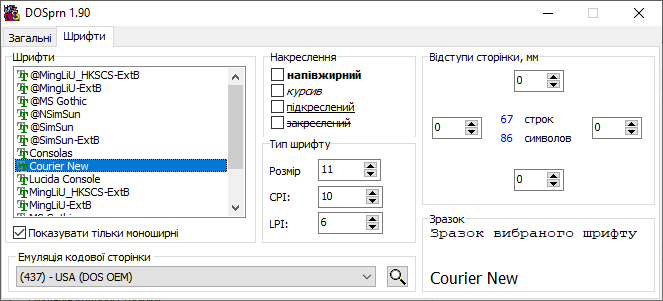
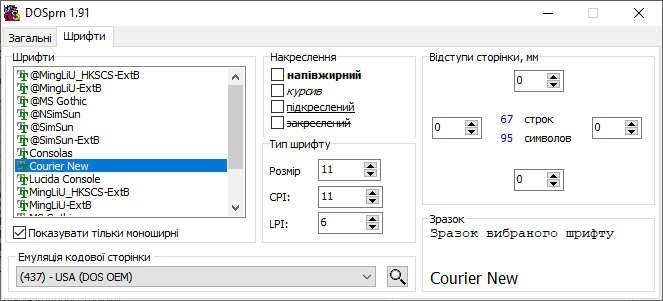
1.91

diff --git a/readme.htm b/readme.htm
@@ -1,5 +1,5 @@
 <!DOCTYPE HTML PUBLIC "-//W3C//DTD HTML 4.0 Transitional//EN">
-<HTML><HEAD><TITLE>DOSPRN 1.90 документація</TITLE>
+<HTML><HEAD><TITLE>DOSPRN 1.91 документація</TITLE>
 <META http-equiv=Content-Type content="text/html; charset=utf-8">
 <META http-equiv=Content-Language content=en-us>
 <META name=Keywords  content="DOS, printers, program, print, printer, USB, programs, LPT, DOS program, software, national, language, internanional" >
@@ -23,7 +23,7 @@
     <TD width="100%">      <table border="0" cellspacing="0" cellpadding="0">
         <tr>
           <td width="50"><IMG src="images/logo.gif" ALT="Print from DOS on printers under Windows98, WinXP, Windows2000" width="42" height="39"></td>
-          <td width="281"><font size="5"><b>DOSPRN 1.90</b></font></td>
+          <td width="281"><font size="5"><b>DOSPRN 1.91</b></font></td>
           <td width="194">      
       <table border="2" bgcolor="#C0C0C0" cellpadding="4" cellspacing="4">
         <tr>
@@ -64,7 +64,7 @@
       ознайомитися з роботою DOSPRN та спробувати її в роботі з вашими програмами для DOS на протязі випробувального періоду. По закінченні цьогу періоду
       ви маєте або зареєструвати вашу копію або видалити її з вашого комп'ютера за допомогою утиліти деінсталяції яка розміщена у головному меню Робочого столу у групі DOSPRN.</P>
       <H3 align=justify>Інсталяція</H3>
-      <P align=justify>Загрузіть та запустіть на виконання само-розпаковуючийся файл <I><a href="https://dosprn.com/DOSprn190.exe">DOSprn190.exe</a></I>. 
+      <P align=justify>Загрузіть та запустіть на виконання само-розпаковуючийся файл <I><a href="https://dosprn.com/DOSprn191.exe">DOSprn191.exe</a></I>. 
       Вам треба буде відповісти на кілька простих питань. Під час інсталяції DOSPRN копіює усі необхідні файли та створює ярлики на вашому комп'ютері.</P>
       <H3 align=justify>Запуск програми</H3>Ви можете стартувати DOSPRN за допомогою ярлика на Робочому Столі або з папки "DOSPRN" 
       у головному меню Windows. Також DOSPRN може стартувати автоматично разом в операційною системою з папки "Автозагрузка" (якщо ви обрали таку можливість під час інсталяції). 

diff --git a/index.htm b/index.htm
@@ -1,5 +1,5 @@
 <!DOCTYPE HTML PUBLIC "-//W3C//DTD HTML 4.0 Transitional//EN">
-<HTML><HEAD><TITLE>DOSPRN 1.90. Друкуємо з DOS програм на принтери зумісні з Windows</TITLE>
+<HTML><HEAD><TITLE>DOSPRN 1.91. Друкуємо з DOS програм на принтери зумісні з Windows</TITLE>
 <META http-equiv=Content-Type content="text/html; charset=utf-8">
 <META http-equiv=Content-Language content=en-us>
 <META name=Keywords  content="dos print, printer, printers, DOS, win, windows, win2k, windows2000, program, USB, programs, LPT, DOS program, software, national, language, internanional" >
@@ -22,7 +22,7 @@
       <table border="0" cellspacing="0" cellpadding="0">
         <tr>
           <td width="50"><IMG src="images/logo.gif" ALT="Print from DOS on printers under Windows98, WinXP, Windows2000" width="42" height="39"></td>
-          <td width="281"><font size="5"><b>DOSPRN 1.90</b></font></td>
+          <td width="281"><font size="5"><b>DOSPRN 1.91</b></font></td>
           <td width="194">      
       <table border="2" bgcolor="#C0C0C0" cellpadding="4" cellspacing="4">
         <tr>
@@ -60,7 +60,7 @@
       <P>DOSPRN також може бути корисний якщо DOS програма прациює на вашій <b>рідній мові</b> але ваш принтер 
       не підтримує друк на вашій мові у текстовому режимі.</P>
       <P>DOSPRN розповсюджується як shareware. Загрузіть його звідси та <I><B><A 
-      href="https://dosprn.com/DOSprn190.exe">Спробуйте ЗАРАЗ</A></B></I> 
+      href="https://dosprn.com/DOSprn191.exe">Спробуйте ЗАРАЗ</A></B></I> 
       </P></TD></TR>
   <TR>
     <TD align=middle width=550 height=26>

diff --git a/download.htm b/download.htm
@@ -1,5 +1,5 @@
 <!DOCTYPE HTML PUBLIC "-//W3C//DTD HTML 4.0 Transitional//EN">
-<HTML><HEAD><TITLE>DOSPRN 1.90 dowload now</TITLE>
+<HTML><HEAD><TITLE>DOSPRN 1.91 dowload now</TITLE>
 <META http-equiv=Content-Language content=en-us>
 <META http-equiv=Content-Type content="text/html; charset=windows-1252">
 <META name=Keywords  content="dos printer driver, dos print download, dos printer, dos usb driver, dos print command, DOS, printers, program, print, printer, USB, programs, LPT, DOS program, software, national, language, internanional" >
@@ -22,7 +22,7 @@
     <TD width="100%">      <table border="0" cellspacing="0" cellpadding="0">
         <tr>
           <td width="50"><IMG src="images/logo.gif" ALT="Print from DOS on printers under Windows98, WinXP, Windows2000" width="42" height="39"></td>
-          <td width="281"><font size="5"><b>DOSPRN 1.90</b></font></td>
+          <td width="281"><font size="5"><b>DOSPRN 1.91</b></font></td>
           <td width="194">      
       <table border="2" bgcolor="#C0C0C0" cellpadding="4" cellspacing="4">
         <tr>
@@ -62,8 +62,8 @@
       <p>We strongly recommend that you thoroughly review the <a href="readme.htm">DOSPRN manual</a>
       and <a href="faq.htm">our FAQ</a>.<br>
       <br>
-      <a href="https://dosprn.com/DOSprn190.exe">Click here for download the
-      self-extracting file <i>DOSprn190.exe (1.8 Mb)</i></a><br>
+      <a href="https://dosprn.com/DOSprn191.exe">Click here for download the
+      self-extracting file <i>DOSprn191.exe (1.8 Mb)</i></a><br>
       <br>
       DOSPRN will remind you about registration each time you print report from your DOS application. If you have
       any questions about

diff --git a/order.htm b/order.htm
@@ -1,5 +1,5 @@
 <!DOCTYPE HTML PUBLIC "-//W3C//DTD HTML 4.0 Transitional//EN">
-<HTML><HEAD><TITLE>Order DOSPRN 1.90</TITLE>
+<HTML><HEAD><TITLE>Order DOSPRN 1.91</TITLE>
 <META http-equiv=Content-Language content=en-us>
 <META http-equiv=Content-Type content="text/html; charset=windows-1252">
 <META name=Keywords content="DOS print order, DOS2usb purchase, DOS printers, program, print, printer, DOS USB, programs, LPT, DOS program, DOS software">
@@ -24,7 +24,7 @@
       <table border="0" cellspacing="0" cellpadding="0">
         <tr>
           <td width="50"><IMG src="images/logo.gif" ALT="Print from DOS on printers under Windows98, WinXP, Windows2000" width="42" height="39"></td>
-          <td width="281"><font size="5"><b>DOSPRN 1.90</b></font></td>
+          <td width="281"><font size="5"><b>DOSPRN 1.91</b></font></td>
           <td width="194">      
       <table border="2" bgcolor="#C0C0C0" cellpadding="4" cellspacing="4">
         <tr>
@@ -78,7 +78,7 @@ After expiry of the trial period, you&nbsp;should register this program.</P>
 
       <P>
       If your DOSPRN's trial period has been expired now you can download and install
-      a <a href="https://dosprn.com/DOSprn190.exe">special "vacation" build</a> of DOSPRN 1.90. The trial period will be 
+      a <a href="https://dosprn.com/DOSprn191.exe">special "vacation" build</a> of DOSPRN 1.91. The trial period will be 
       expanded up to August, 1.
       </P>
 -->

diff --git a/news.htm b/news.htm
@@ -1,5 +1,5 @@
 <!DOCTYPE HTML PUBLIC "-//W3C//DTD HTML 4.0 Transitional//EN">
-<HTML><HEAD><TITLE>DOSPRN 1.90 секція новин</TITLE>
+<HTML><HEAD><TITLE>DOSPRN 1.91 секція новин</TITLE>
 <META http-equiv=Content-Language content=en-us>
 <META http-equiv=Content-Type content="text/html; charset=utf-8">
 <META name=Keywords  content="dos print news, dos printer driver, dos printer, dos usb driver, dos print command, DOS, printers, program, print, printer, USB, programs, LPT, DOS program, software, national, language, internanional" >
@@ -56,7 +56,12 @@
     </TD></TR>
   <TR>
     <TD width="100%">
-      <H3>What's new</H3>
+      <H3>Новини</H3>
+      <P><B>Version 1.91</B></P>
+      + додана підтримка паралельних портів LPT4..LPT8<br>
+      * виправлена помилка переривання повноекранного режима ДОС під час друку<br>
+      * виправлена поведінка опції командного рядка "dialog"<br>
+      * виправлення дрібних помилок<br>
       <P><B>Version 1.90</B></P>
       * виправлена помилка перехоплення даних на старих комп'ютерах з апаратними портами LPTx<br>
       * додана підтримка старих версій DOSBOX and vDos<br>

diff --git a/sequences.htm b/sequences.htm
@@ -1,5 +1,5 @@
 <!DOCTYPE HTML PUBLIC "-//W3C//DTD HTML 4.0 Transitional//EN">
-<HTML><HEAD><TITLE>DOSPRN 1.90 supported ESC sequences</TITLE>
+<HTML><HEAD><TITLE>DOSPRN 1.91 supported ESC sequences</TITLE>
 <META http-equiv=Content-Type content="text/html; charset=windows-1251">
 <META name=Keywords  content="dos printer driver, dos printer, dos usb driver, dos print command, DOS, printers, program, print, printer, USB, programs, LPT, DOS program, software, national, language, internanional" >
 <META name=Description  content="DOSPRN allow to use your old favorite DOS program with new printers independently of their types (yes, and USB also !)" >
@@ -22,7 +22,7 @@
     <TD width="100%">      <table border="0" cellspacing="0" cellpadding="0" width="630">
         <tr>
           <td width="50"><IMG src="images/logo.gif" ALT="Print from DOS on printers under Windows98, WinXP, Windows2000" width="42" height="39"></td>
-          <td width="345"><font size="5"><b>DOSPRN 1.90</b></font></td>
+          <td width="345"><font size="5"><b>DOSPRN 1.91</b></font></td>
           <td width="229">      
       <table border="2" bgcolor="#C0C0C0" cellpadding="4" cellspacing="4">
         <tr>

diff --git a/login.htm b/login.htm
@@ -1,5 +1,5 @@
 <!DOCTYPE HTML PUBLIC "-//W3C//DTD HTML 4.0 Transitional//EN">
-<HTML><HEAD><TITLE>DOSPRN 1.90 registered users login</TITLE>
+<HTML><HEAD><TITLE>DOSPRN 1.91 registered users login</TITLE>
 <META http-equiv=Content-Language content=en-us>
 <META http-equiv=Content-Type content="text/html; charset=windows-1252">
 <META name=Keywords  content="dos printer driver, dos printer, dos usb driver, dos print command, DOS, printers, program, print, printer, USB, programs, LPT, DOS program, software, national, language, internanional" >
@@ -22,7 +22,7 @@
     <TD width="100%">      <table border="0" cellspacing="0" cellpadding="0">
         <tr>
           <td width="50"><IMG src="images/logo.gif" ALT="Print from DOS on printers under Windows98, WinXP, Windows2000" width="42" height="39"></td>
-          <td width="281"><font size="5"><b>DOSPRN 1.90</b></font></td>
+          <td width="281"><font size="5"><b>DOSPRN 1.91</b></font></td>
           <td width="194">      
       <table border="2" bgcolor="#C0C0C0" cellpadding="4" cellspacing="4">
         <tr>

diff --git a/languages.htm b/languages.htm
@@ -5,7 +5,7 @@
 <meta name="Description" content="DOSPRN allow to use your old favorite DOS program with new printers independently of their types (yes, and USB also !)">
 <meta name="GENERATOR" content="Microsoft FrontPage 6.0">
 <meta name="ProgId" content="FrontPage.Editor.Document">
-<TITLE>DOSPRN 1.90 languages supported</TITLE>
+<TITLE>DOSPRN 1.91 languages supported</TITLE>
 <meta name=viewport content="width=device-width, initial-scale=1">
 
 <script type="text/javascript">
@@ -25,7 +25,7 @@
     <TD width="100%">      <table border="0" cellspacing="0" cellpadding="0">
         <tr>
           <td width="50"><IMG src="images/logo.gif" ALT="Print from DOS on printers under Windows98, WinXP, Windows2000" width="42" height="39"></td>
-          <td width="281"><font size="5"><b>DOSPRN 1.90</b></font></td>
+          <td width="281"><font size="5"><b>DOSPRN 1.91</b></font></td>
           <td width="194">      
       <table border="2" bgcolor="#C0C0C0" cellpadding="4" cellspacing="4">
         <tr>

diff --git a/codepages.htm b/codepages.htm
@@ -1,4 +1,4 @@
-<HTML><HEAD><TITLE>DOSPRN 1.90 codepages support</TITLE>
+<HTML><HEAD><TITLE>DOSPRN 1.91 codepages support</TITLE>
 <META http-equiv=Content-Type content="text/html; charset=windows-1251">
 <META name=Keywords content="dos printer driver, dos code, dos codepages, dos codepages, dos printer, dos usb driver, dos print command, DOS, printers, program, print, printer, USB, programs, LPT, DOS program, software, national, language, internanional">
 <META name=Description content="DOSPRN allow to use your old favorite DOS program with new printers independently of their types (yes, and USB also !)">
@@ -22,7 +22,7 @@
 
 <TR>
 <TD width=50><IMG height=39 alt="Print from DOS on printers under Windows98, WinXP, Windows2000" src="images/logo.gif" width=42></TD>
-<TD width=281><FONT size=5><B>DOSPRN 1.90</B></FONT></TD>
+<TD width=281><FONT size=5><B>DOSPRN 1.91</B></FONT></TD>
 <TD width=194>
 <TABLE cellSpacing=4 cellPadding=4 bgColor=#c0c0c0 border=2>
 

diff --git a/faq.htm b/faq.htm
@@ -22,7 +22,7 @@
     <TD width="100%">      <table border="0" cellspacing="0" cellpadding="0">
         <tr>
           <td width="50"><IMG src="images/logo.gif" ALT="Print from DOS on printers under Windows98, WinXP, Windows2000" width="42" height="39"></td>
-          <td width="281"><font size="5"><b>DOSPRN 1.90</b></font></td>
+          <td width="281"><font size="5"><b>DOSPRN 1.91</b></font></td>
           <td width="194">      
       <table border="2" bgcolor="#C0C0C0" cellpadding="4" cellspacing="4">
         <tr>
